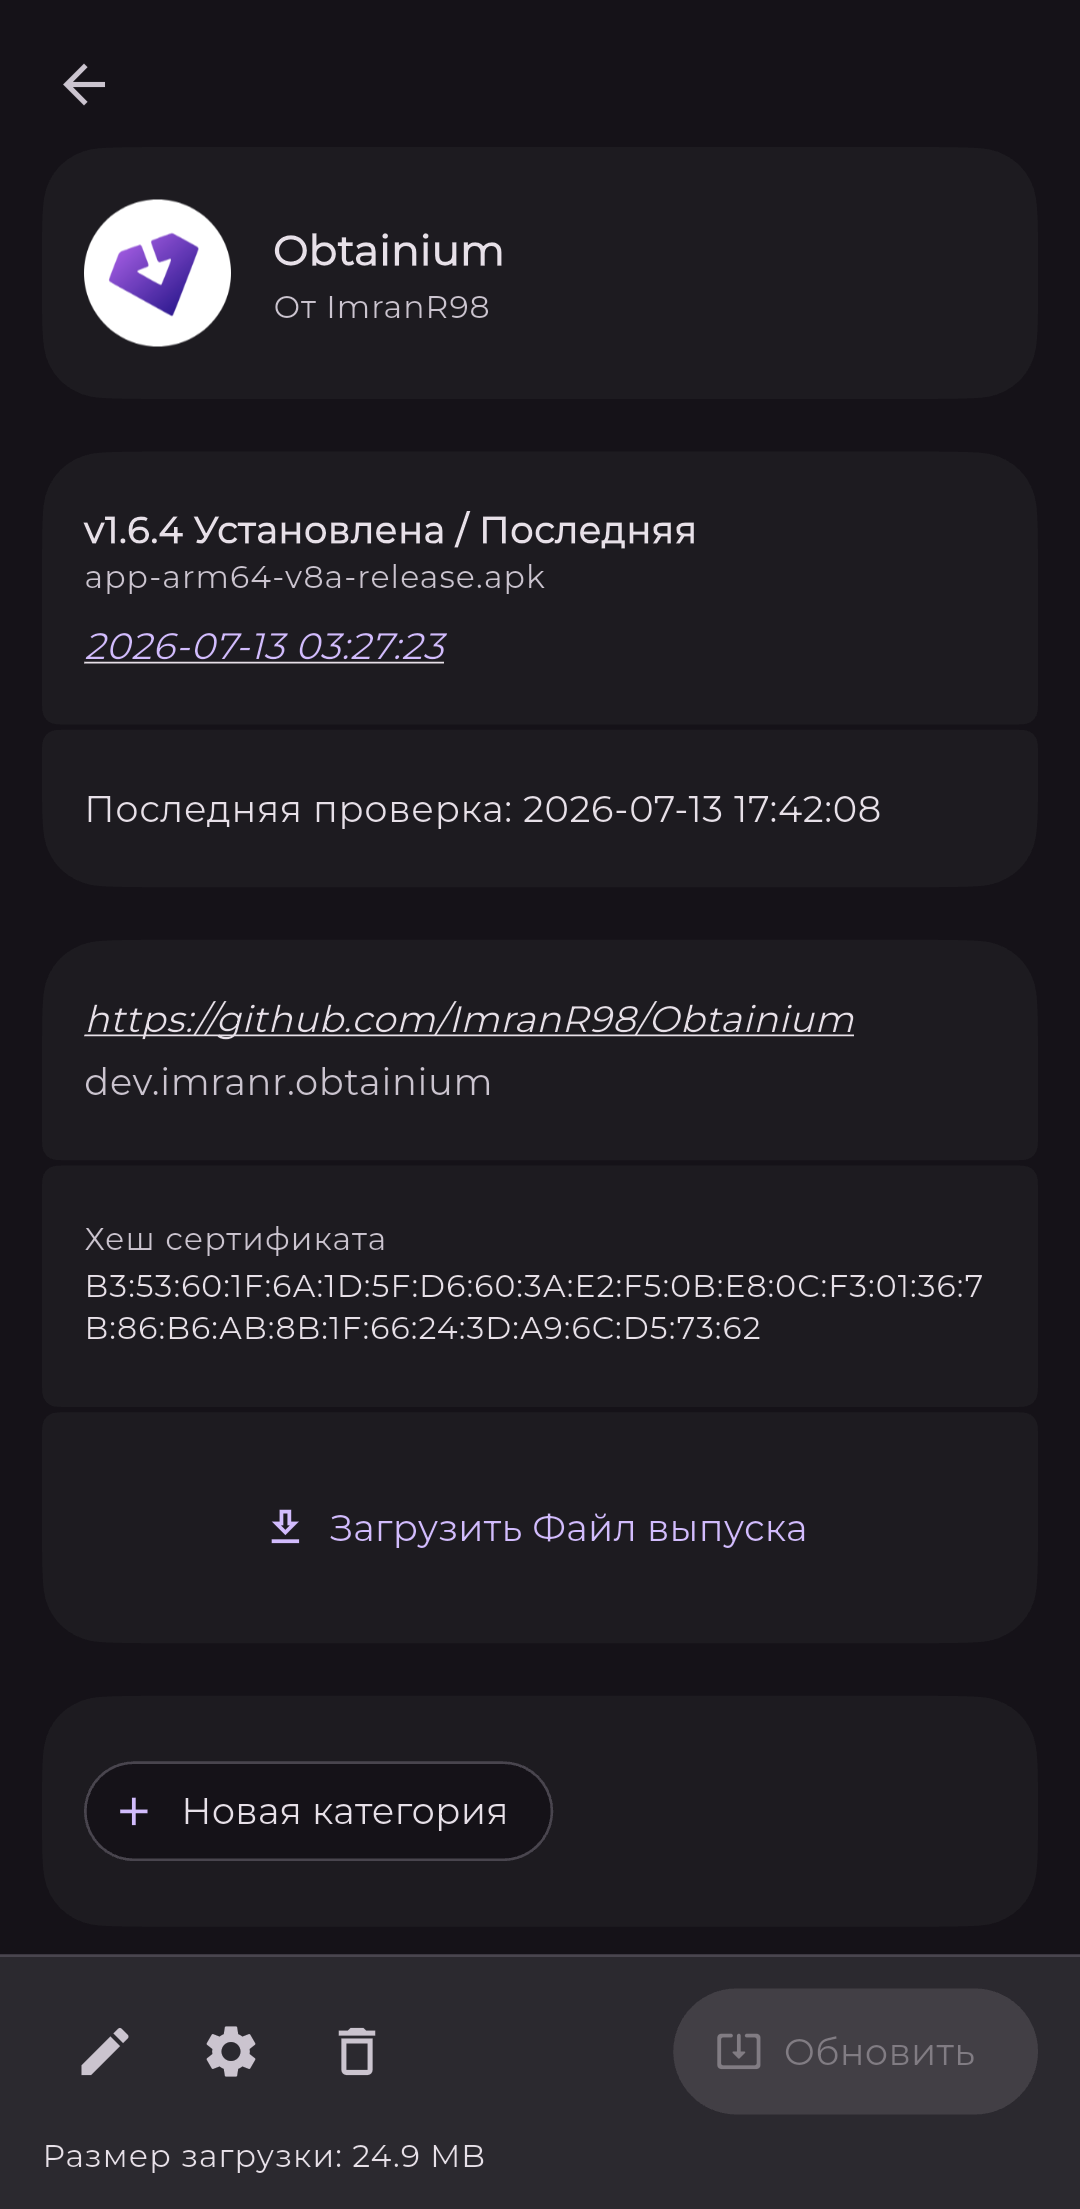
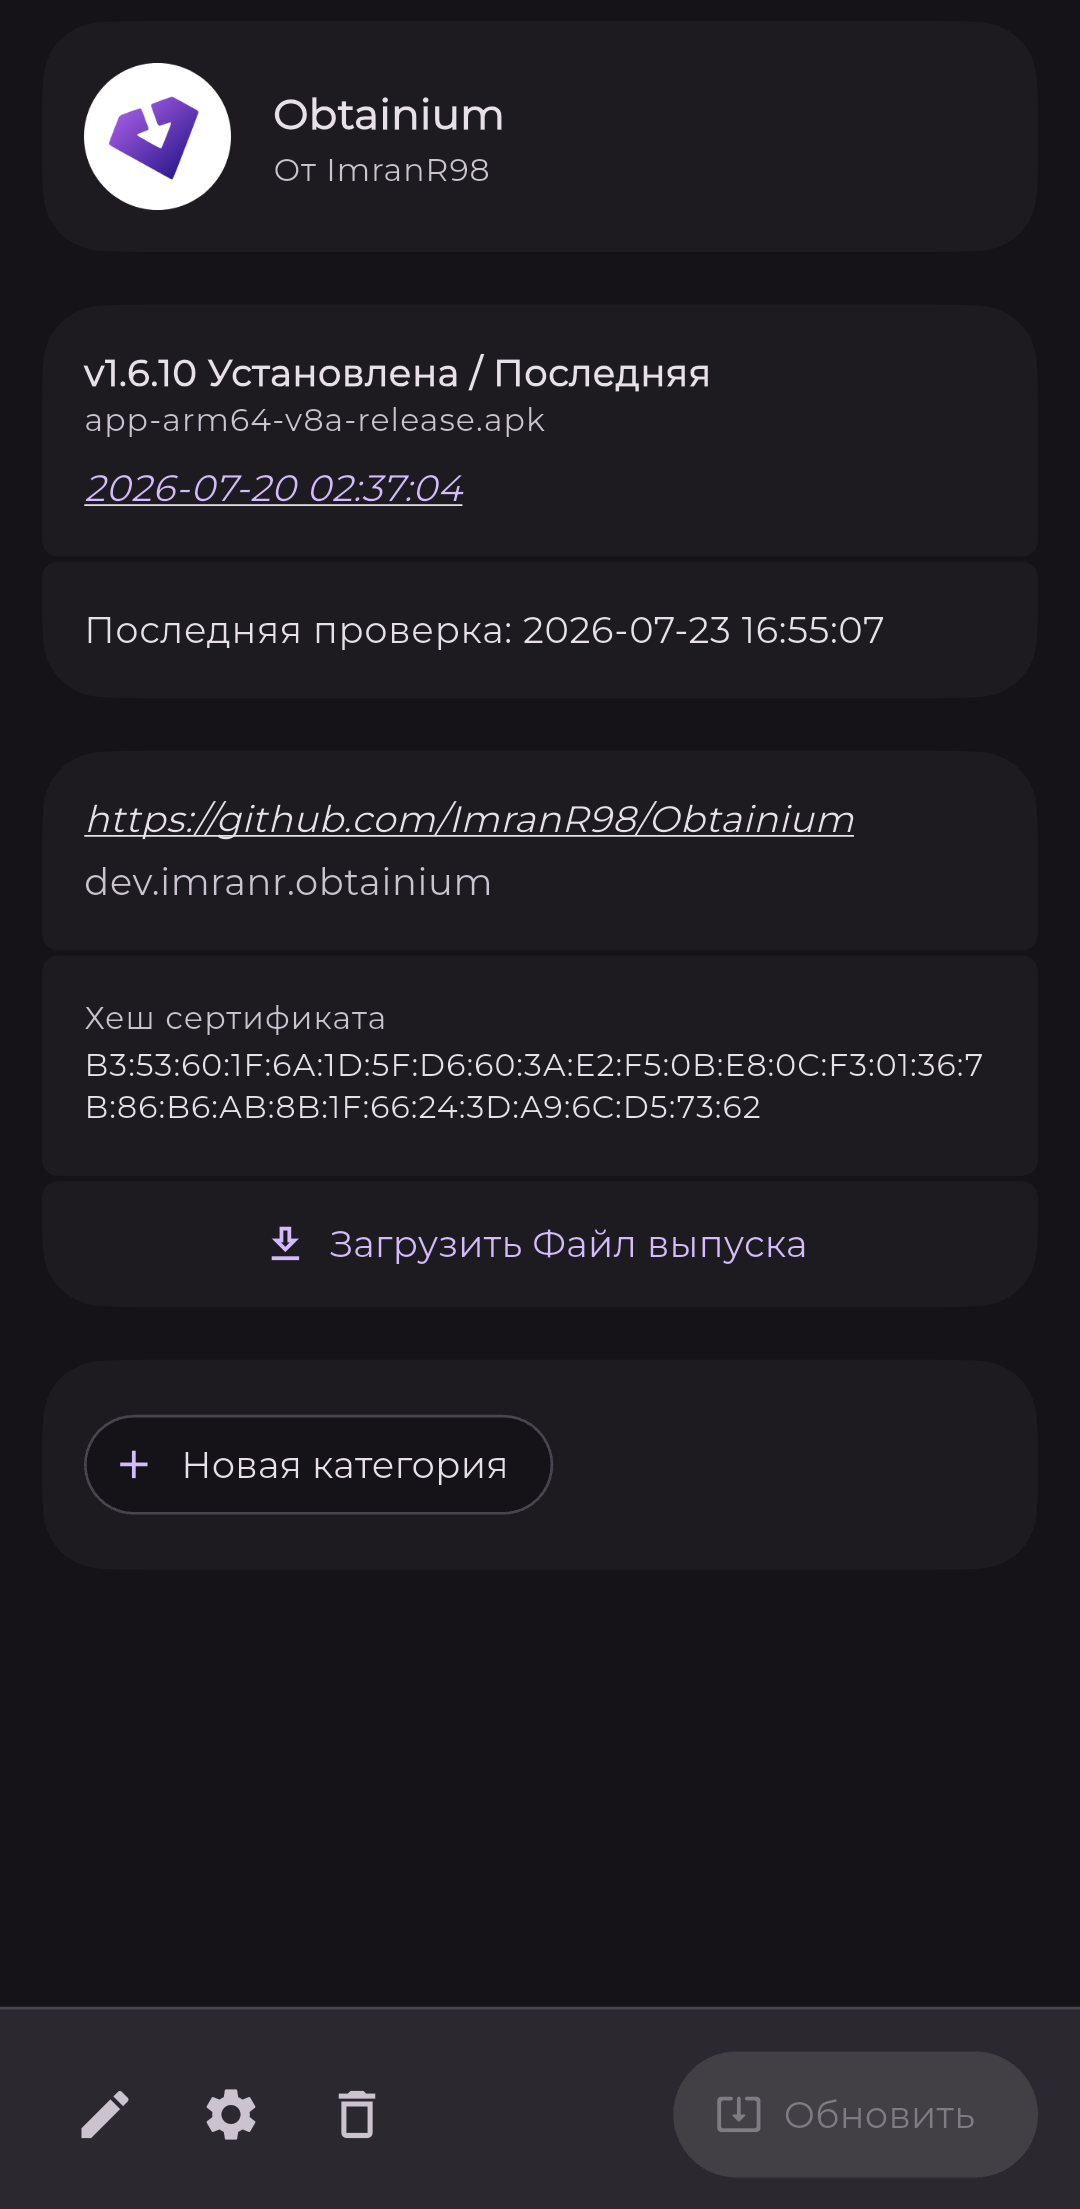
g/obtainium: убран раздел поиска; обновлены скриншоты

diff --git a/content/guides/obtainium/index.md b/content/guides/obtainium/index.md
@@ -1,7 +1,7 @@
 ---
 title: Использование Obtainium для получения обновлений приложений Android из разных источников
 publishDate: 2025-04-27T10:10:00Z
-lastmod: 2026-07-21T17:03:00Z
+lastmod: 2026-07-23T15:04:00Z
 contributors: [kttrickster]
 image: image.webp
 imageAlt: >
@@ -34,7 +34,7 @@ Obtainium полностью бесплатный и с [открытым исх
 ## Нахождение приложений
 
 Obtainium не является каталогом приложений. Это всего лишь инструмент для
-установки и обновления приложений из разных источников. Хотя есть [встроенный поиск](#поиск)
+установки и обновления приложений из разных источников. Хотя есть встроенный поиск
 и [готовые конфигурации](#готовые-конфигурации), чаще всего вам нужно находить
 приложения в каком-либо другом месте самостоятельно.
 
@@ -70,6 +70,9 @@ Obtainium не является каталогом приложений. Это 
 2. Нажмите на кнопку **«Добавить»** снизу.
 3. В поле **«URL-адрес источника приложения»** вставьте ранее скопированную
 ссылку на страницу с приложением.
+    - Также вы можете воспользоваться поиском: введите запрос в поле ниже и
+    выберите источники. В результатах вы сможете открыть страницы приложений или
+    получить одно приложение.
 
 ![Плавающая кнопка «Добавить» снизу. Поле «URL-адрес источника приложения». Появляется информация об источнике и дополнительные параметры](add_app.webp)
 
@@ -135,8 +138,8 @@ Forgejo/Gitea, следует переопределить источник на
 профилей.
 
 Вы можете использовать F-Droid для нахождения приложений в браузере или через
-встроенный [поиск](#поиск). Обычно приложения публикуются в нескольких
-источниках, часто в [GitHub](#github) или [Codeberg (Forgejo / Gitea)](#codeberg-forgejo--gitea).
+встроенный поиск. Обычно приложения публикуются в нескольких источниках, часто в
+[GitHub](#github) или [Codeberg (Forgejo / Gitea)](#codeberg-forgejo--gitea).
 Скопируйте ссылку на исходный код, и если там публикуются релизы, то Obtainium
 сможет получать их. Обратите внимание, что версии от F-Droid и разработчиков
 могут отличаться, так как F-Droid запрещает включать проприетарные компоненты.
@@ -145,7 +148,7 @@ Forgejo/Gitea, следует переопределить источник на
 чтобы добавить приложение оттуда, вместе со ссылкой на репозиторий нужно указать
 название приложения или идентификатор пакета, а также переопределить источник на
 **«Сторонние репозитории F-Droid»**. Если вы не уверены, какие приложения есть
-в этом репозитории, найдите через [поиск](#поиск).
+в этом репозитории, найдите через поиск.
 
 ![Параметры для добавления приложения из стороннего репозитория F-Droid: ссылка, переопределение источника и название приложения.](third_party_f-droid_repo.webp)
 
@@ -278,14 +281,6 @@ Obtainium.
 Если вы хотите изменить ссылку-источник, то удалите приложение только из
 Obtainium и добавьте его заново из другого источника. Подпись приложения при
 этом должна совпадать.
-
-## Поиск
-
-В Obtainium встроен поиск приложений в некоторых источниках. В меню добавления
-приложения есть поле поиска. Введите запрос и выберите источники. Результаты
-поиска необязательно содержат приложения, которые можно добавить. Вы можете
-нажать на название приложения, чтобы перейти на его страницу и проверить
-доступность.
 
 ## Экспорт и импорт данных
 
